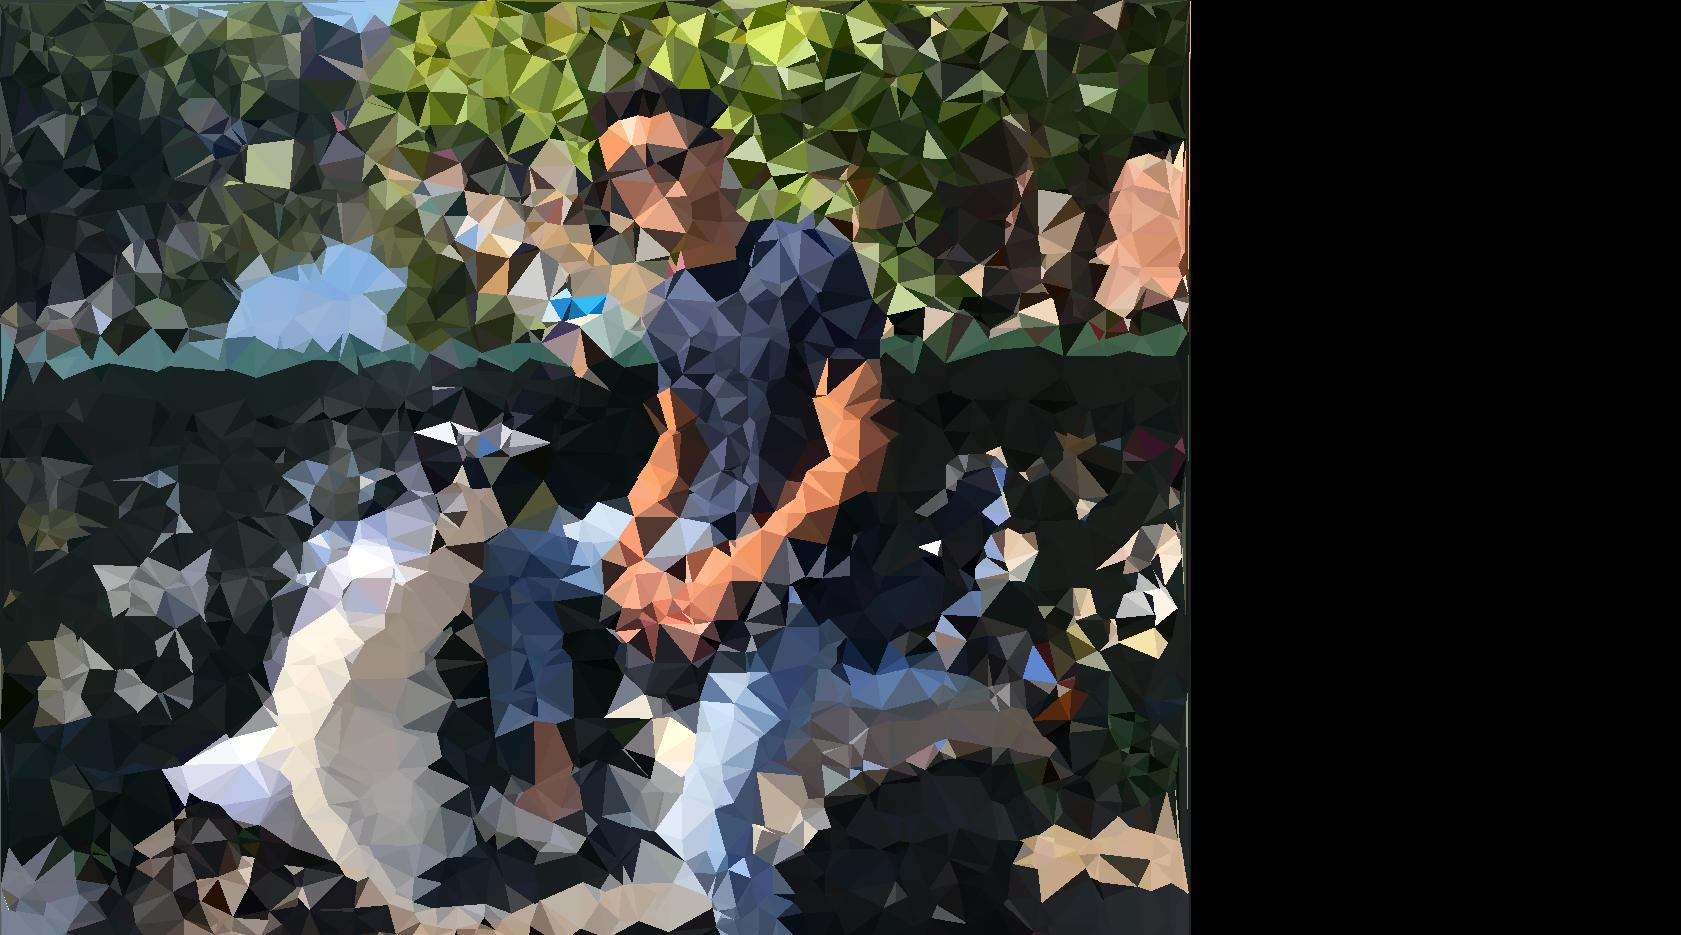
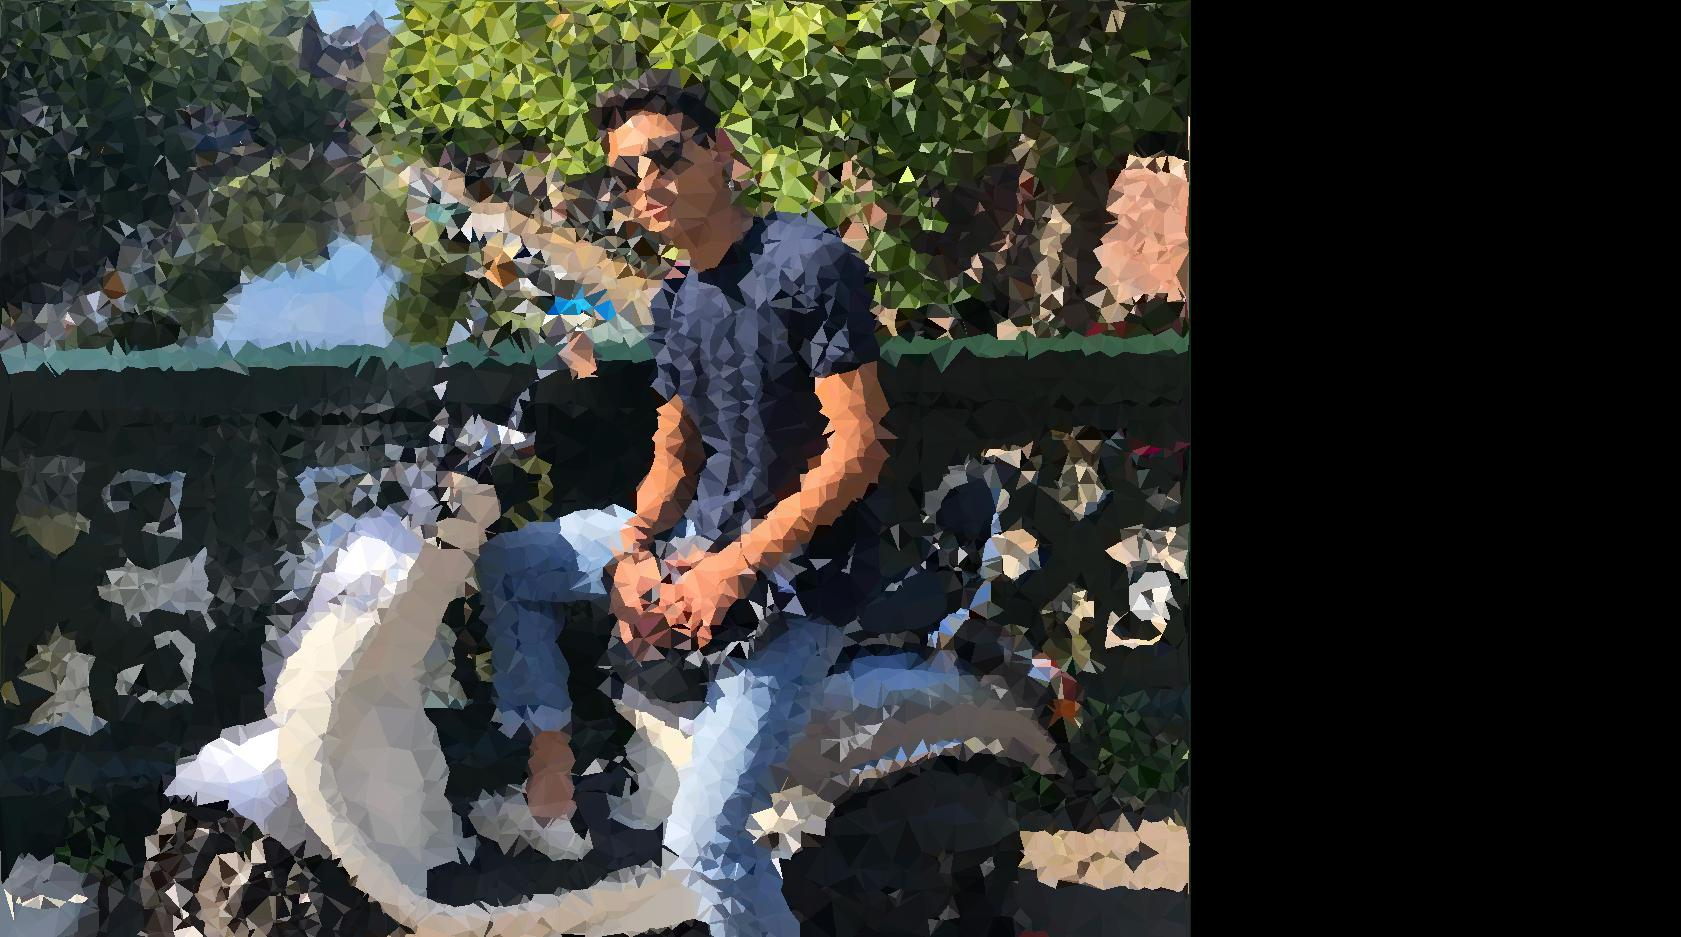
resize and crop triangulated images, make sure not opening windows each time

diff --git a/triangulator_class.py b/triangulator_class.py
@@ -15,7 +15,7 @@ import cv2, random, time, os
 
 class LowPolyGenerator():
     def __init__(self, imagePath, blurSize=3, sharpen=True,
-                nodeSampleDistanceThreshold=50, randomNoiseRate=4000,
+                nodeSampleDistanceThreshold=30, randomNoiseRate=4000,
                 cannyLow=50, cannyHigh=100):
         self.path = imagePath
         self.blurSize = blurSize
@@ -71,7 +71,7 @@ class LowPolyGenerator():
         (canny.shape[0]*canny.shape[1])
         for row in range(canny.shape[0]):
             for col in range(canny.shape[1]):
-                if random.random() < 0.01 and canny[row, col] == 255:
+                if random.random() < 0.05 and canny[row, col] == 255:
                     nodes.append((col, row))
                 elif random.random() < noiseProbability:
                     nodes.append((col, row))
@@ -85,7 +85,7 @@ class LowPolyGenerator():
         while i < len(nodes):
             j = i + 1
             while j < len(nodes):
-                if random.random() > .9 and \
+                if random.random() > .95 and \
                 LowPolyGenerator.distance(nodes[i], nodes[j]) < threshold:
                     count += 1
                     nodes.pop(j)
@@ -175,14 +175,14 @@ def runDrawing(lowPolyGenerator):
 
 TEST = False
 if TEST:
-    fileName = "obama.jpg"
+    fileName = "nico.jpg"
     path = os.getcwd() + "/images/" + fileName
     lowPolyGenerator = LowPolyGenerator(path)
     lowPolyGenerator.generateTriangulation()
     runDrawing(lowPolyGenerator)
 
     plt.imshow(lowPolyGenerator.canny)
-    #plt.show()
+    plt.show()
     print(" ratio of pixels to triangles: ",
     (lowPolyGenerator.image.shape[0]*lowPolyGenerator.image.shape[1]) / \
     len(lowPolyGenerator.triangles))
